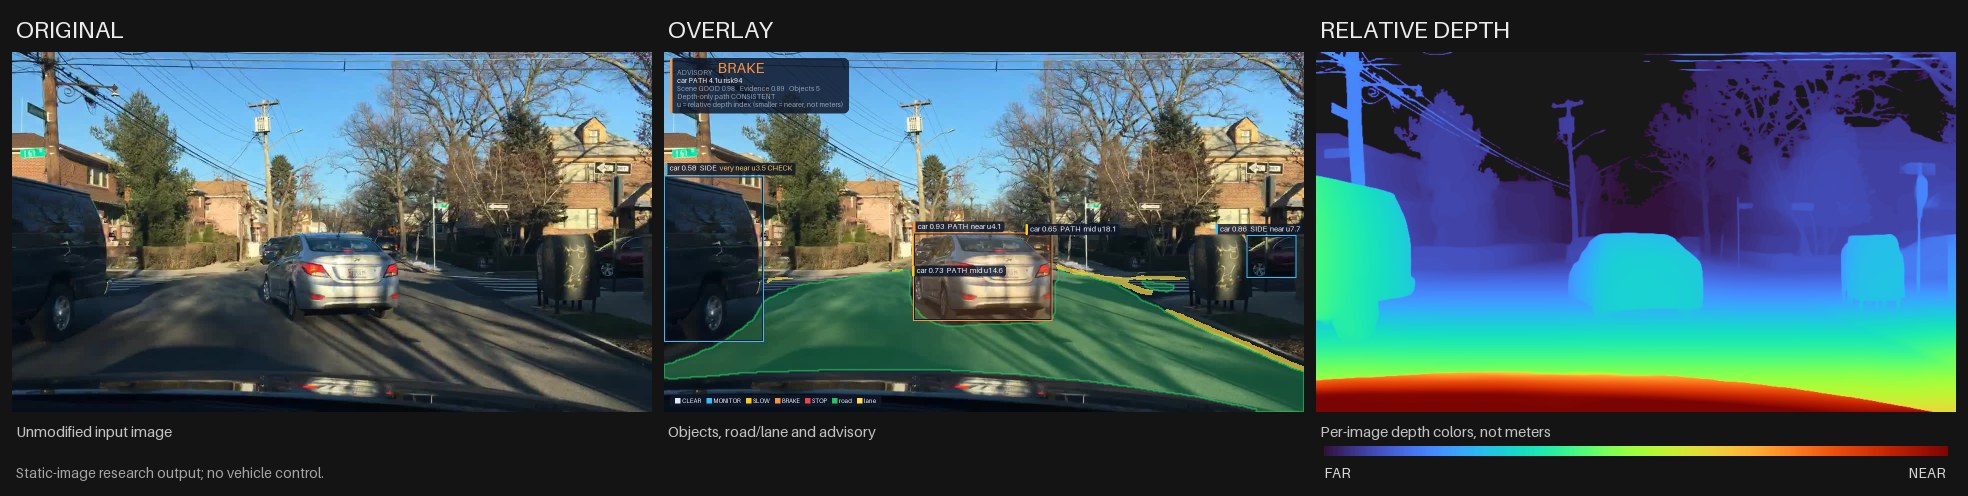
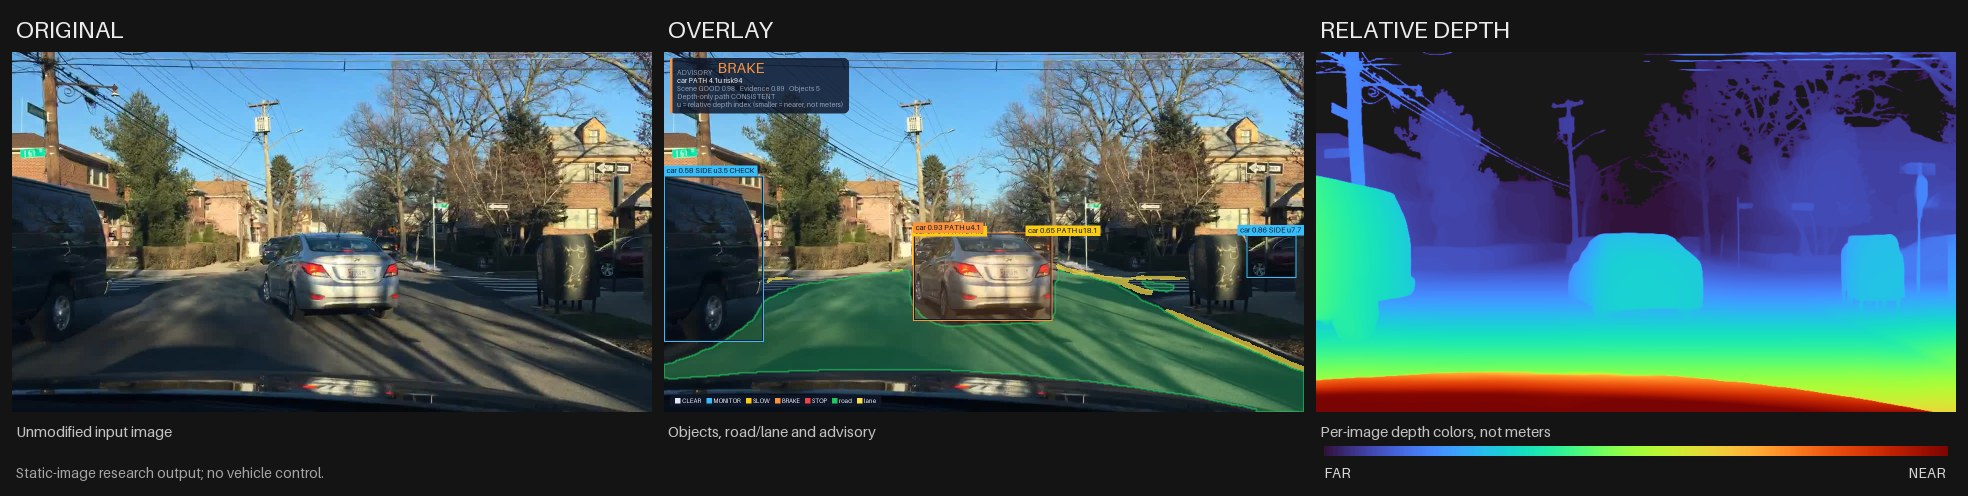
Overlay: a label on every detected box by default; README images and explanation

diff --git a/paper_visualization.py b/paper_visualization.py
@@ -77,7 +77,7 @@ def _object_label(det, compact=False):
 
 def render_overlay(image, road_mask=None, lane_mask=None, detections=(), advisory="CLEAR", advisory_confidence=None,
                    critical=None, scene_quality=None, depth_scan=None, text_scale=1.0, max_labels=FULL_LABEL_LIMIT,
-                   compact=False, numbered=False):
+                   compact=False, numbered=False, label_all=False):
     """Draw the fused result on the input image (BGR uint8 in, BGR uint8 out, same size).
 
     detections: the per-object audit records of the report (class, confidence, box_xyxy,
@@ -88,7 +88,8 @@ def render_overlay(image, road_mask=None, lane_mask=None, detections=(), advisor
 
     text_scale, max_labels and compact only change the presentation (larger text and fewer labels for
     a small printed figure; compact keeps the advisory card to the advisory and the scene state and
-    leaves the color legend to the figure caption). numbered tags every box with its object number
+    leaves the color legend to the figure caption). label_all writes a label on every box (class,
+    confidence, path relation, u, depth state). numbered tags every box with its object number
     (#1, #2, ... in the order of the audit record) so that render_object_table can list them all.
     """
     frame = np.asarray(image)
@@ -190,6 +191,32 @@ def render_overlay(image, road_mask=None, lane_mask=None, detections=(), advisor
         draw.rectangle((cursor, top, cursor + swatch, top + swatch), fill=color + (255,))
         draw.text((cursor + swatch + int(round(4 * scale)), legend[1] + int(round(4 * scale))), name, font=tag_font, fill=TEXT_RGB + (255,))
         cursor += swatch + int(round(14 * scale)) + text_w
+
+    if label_all:
+        # Every box gets its label, directly on its top edge, in the color of its advisory (far
+        # objects first, so the labels of nearer objects are drawn on top).
+        for item in sorted(objects, key=lambda o: o["box"][3]):
+            x1, y1, x2, y2 = item["box"]
+            det = item["det"]
+            unit = det.get("original_inverse_depth_unit")
+            state = str(det.get("original_unit_status", "")).upper()
+            text = f"{det.get('class', 'object')} {float(det.get('confidence', 0.0)):.2f} {det.get('corridor_relation', '')}"
+            text += f" u{float(unit):.1f}" if unit is not None else ""
+            text += "" if state == "STABLE" else f" {state or 'UNKNOWN'}"
+            if numbered:
+                text = f"#{item['number']} " + text
+            text_w, text_h, text_top = _text_size(draw, text, label_font)
+            label_w, label_h = text_w + 2 * pad, text_h + 2 * pad
+            left = min(max(x1, 0), max(0, width - label_w))
+            top = y1 - label_h if y1 - label_h >= 0 else y1
+            spot = (left, top, left + label_w, top + label_h)
+            if _overlaps(spot, card):  # never cover the advisory card: put the label inside the box
+                top = max(y1, card[3] + 1) if y2 - y1 > label_h else y2
+                spot = (left, top, left + label_w, top + label_h)
+            draw.rectangle(spot, fill=item["color"] + (255,))
+            draw.text((left + pad, top + pad - text_top), text, font=label_font, fill=(15, 23, 42, 255))
+        result = np.asarray(Image.alpha_composite(canvas, layer).convert("RGB"))
+        return cv2.cvtColor(result, cv2.COLOR_RGB2BGR)
 
     # Labels: near (large) objects always get a full label, then the most severe ones up to the
     # limit; each label is placed where it covers no other label.

diff --git a/camera_ready/figures.py b/camera_ready/figures.py
@@ -326,7 +326,7 @@ def fig_overlay_cases(cases):
         image = cv2.imread(str(VAL / f"{key}.jpg"))
         masks = np.load(OUT / "cache" / "hybridnets" / f"{key}.npz")
         overlay = render_overlay(image, masks["road"], masks["lane"], report["detections"], report["global_advisory"],
-                                 None, None, report["scene_quality"], None, text_scale=2.6, max_labels=3, compact=True)
+                                 None, None, report["scene_quality"], None, text_scale=2.0, compact=True, label_all=True)
         ax.imshow(cv2.cvtColor(overlay, cv2.COLOR_BGR2RGB))
         ax.set_title(f"({'abc'[index]}) {title}", fontsize=7, color=INK, pad=2)
         ax.set_xticks([])

diff --git a/test3.py b/test3.py
@@ -2640,6 +2640,7 @@ class ADASPipeline:
             critical_label,
             scene_quality,
             depth_scan,
+            label_all=True,
         )
         annotated = append_detection_summary(annotated, annotation_records)
 

diff --git a/README.md b/README.md
@@ -169,14 +169,12 @@ labeled on the image:
 Objects without a box were not detected at all: the detector finds 78.9 % of the relevant road
 users on the test split (21 of 34 in the dense street above, 10 of 12 in the night scene).
 
-**Reading the overlay.** Each box takes the color of the advisory that object raised
-(`CLEAR` grey, `MONITOR` blue, `SLOW` yellow, `BRAKE` orange, `STOP` red); objects at `SLOW` or above
-are also filled. A label reads `class confidence  relation  range u<index>`: `relation` is `PATH`,
-`EDGE` or `SIDE`, and `u` is the relative depth index (smaller is nearer, within this image only).
-When the depth estimate is not `STABLE`, its state (`CHECK` or `UNCERTAIN`) follows `u`, in amber.
-In crowded scenes the most severe objects get full labels and the others a short tag (`PATH`,
-`EDGE`, `SIDE`).
-The card at the top left gives the global advisory, the object that decided it, the scene quality
+**Reading the overlay.** Every detected object gets a box and a label in the color of the advisory
+that object raised (`CLEAR` grey, `MONITOR` blue, `SLOW` yellow, `BRAKE` orange, `STOP` red);
+objects at `SLOW` or above are also filled. A label reads `class confidence relation u<index>`:
+`relation` is `PATH`, `EDGE` or `SIDE`, and `u` is the relative depth index (smaller is nearer,
+within this image only, never meters). `CHECK` or `UNCERTAIN` after `u` means the depth estimate
+is not `STABLE`. The card at the top left gives the global advisory, the object that decided it, the scene quality
 and the depth-only corridor state. Everything shown is read from the audit record; the overlay
 computes nothing.
 
